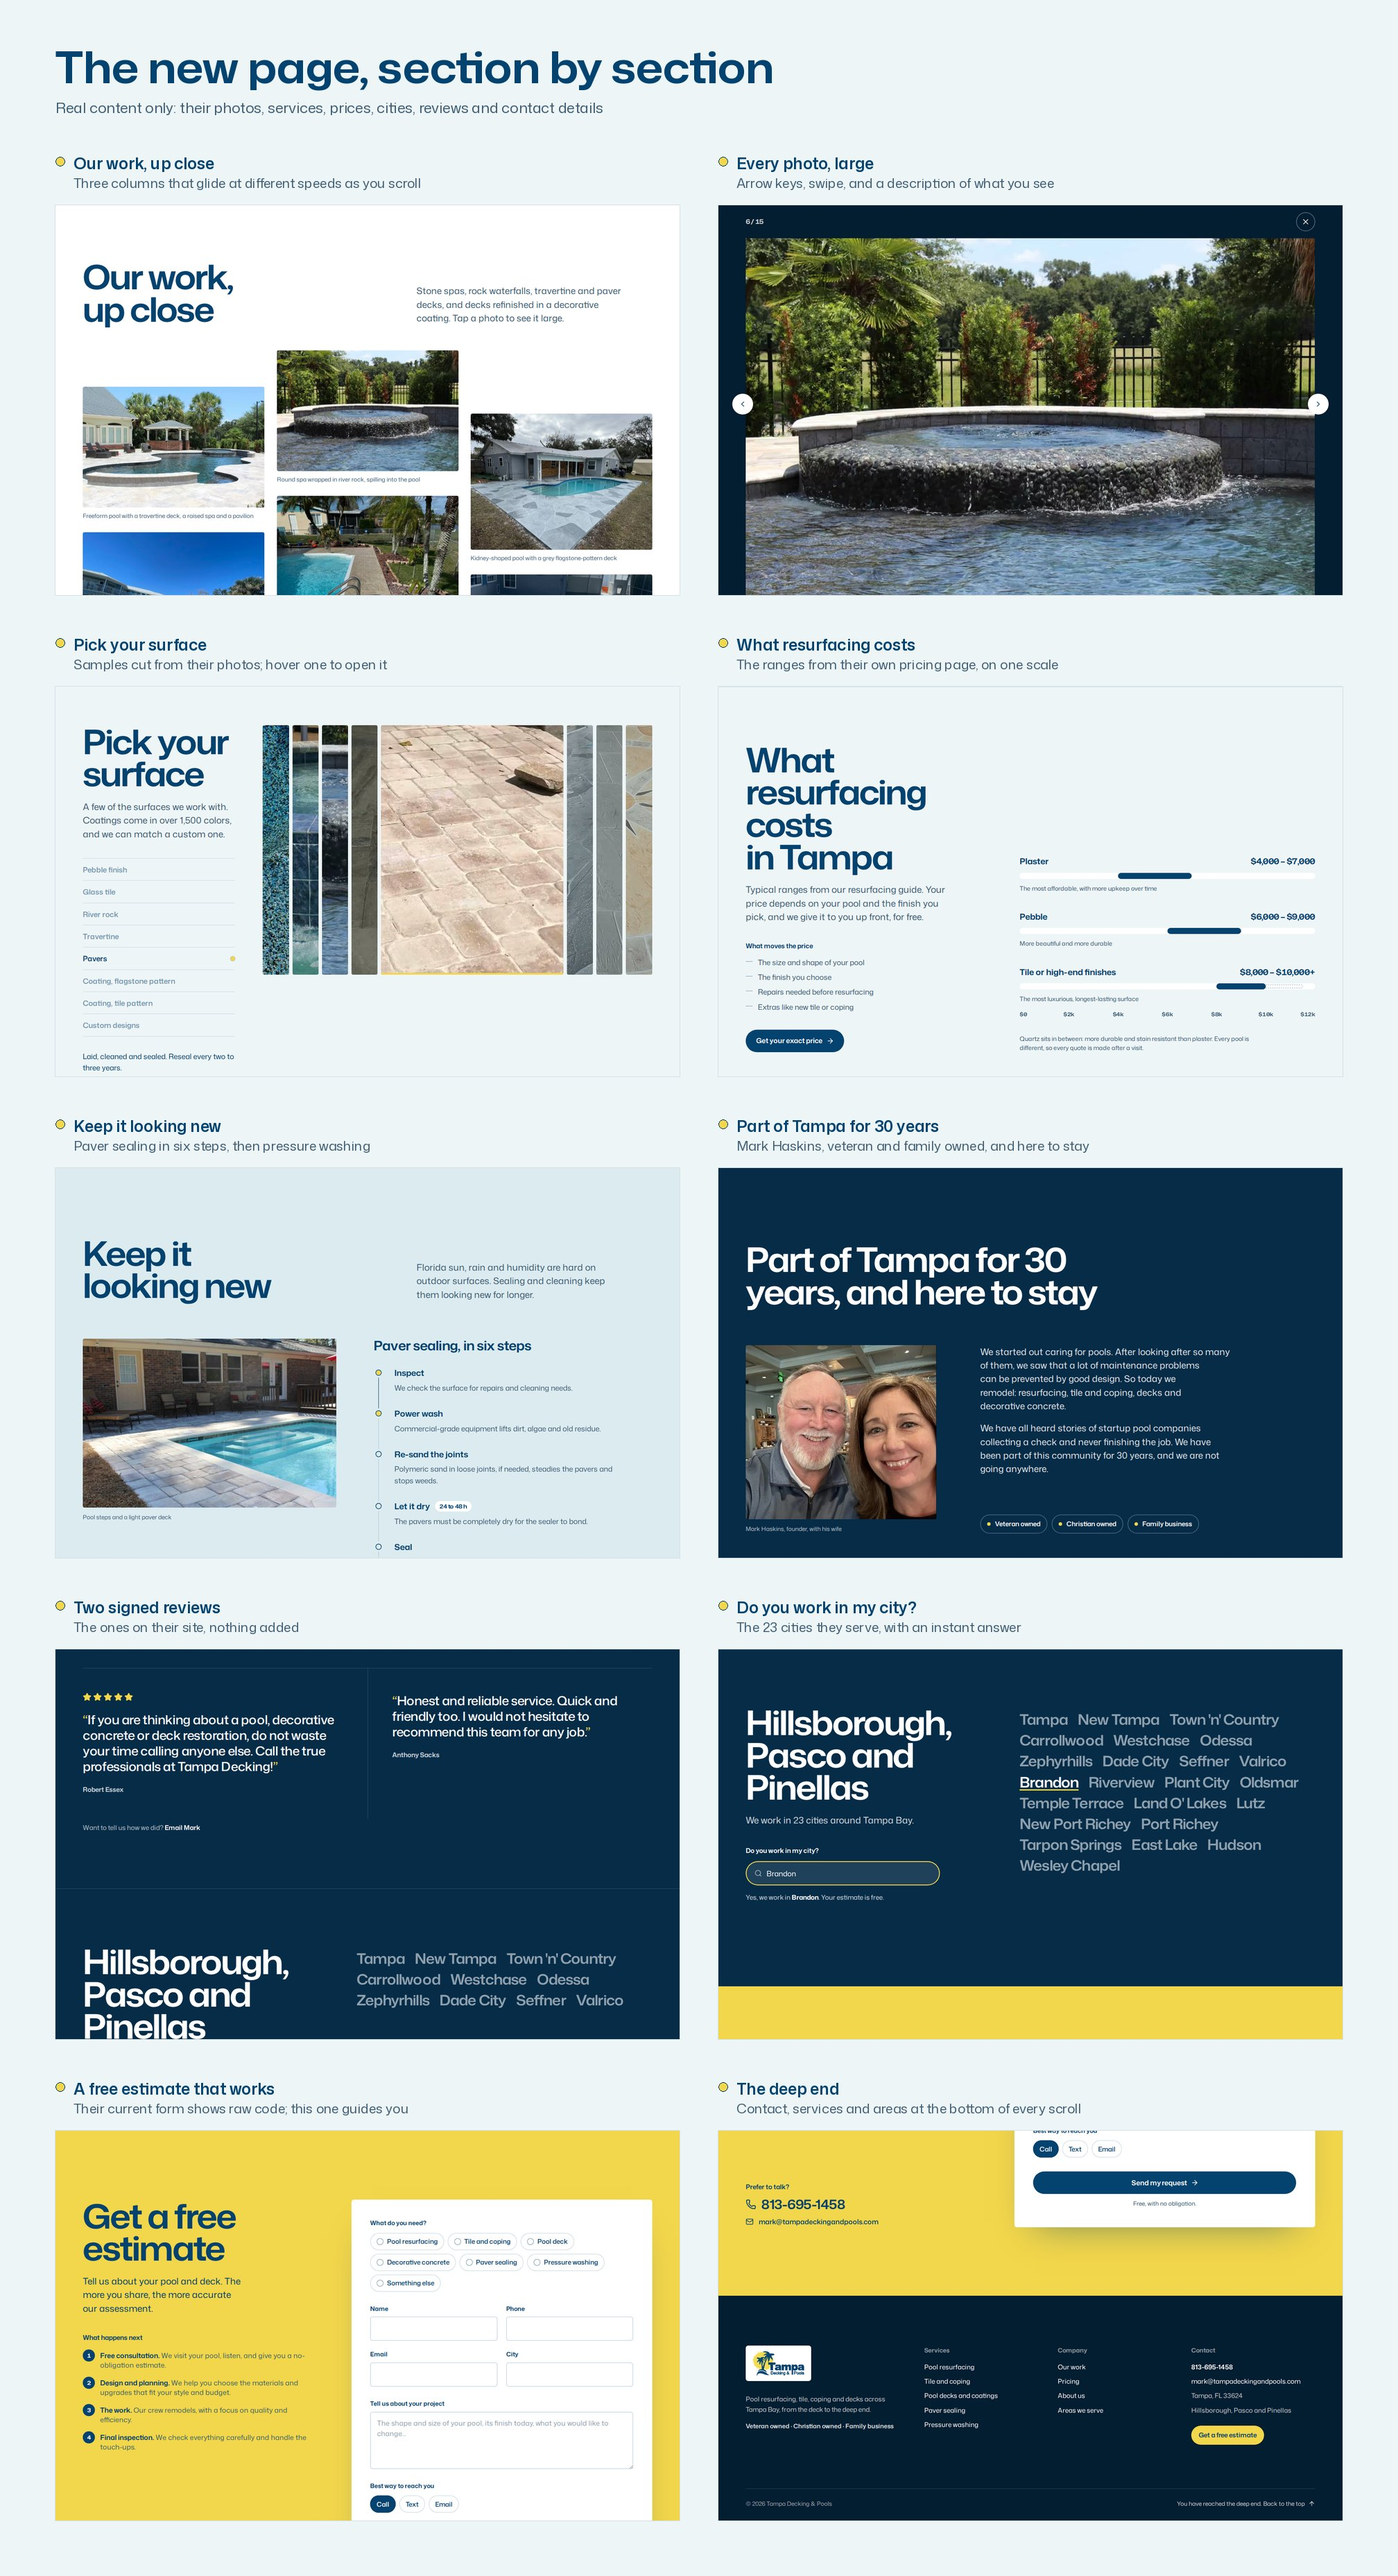
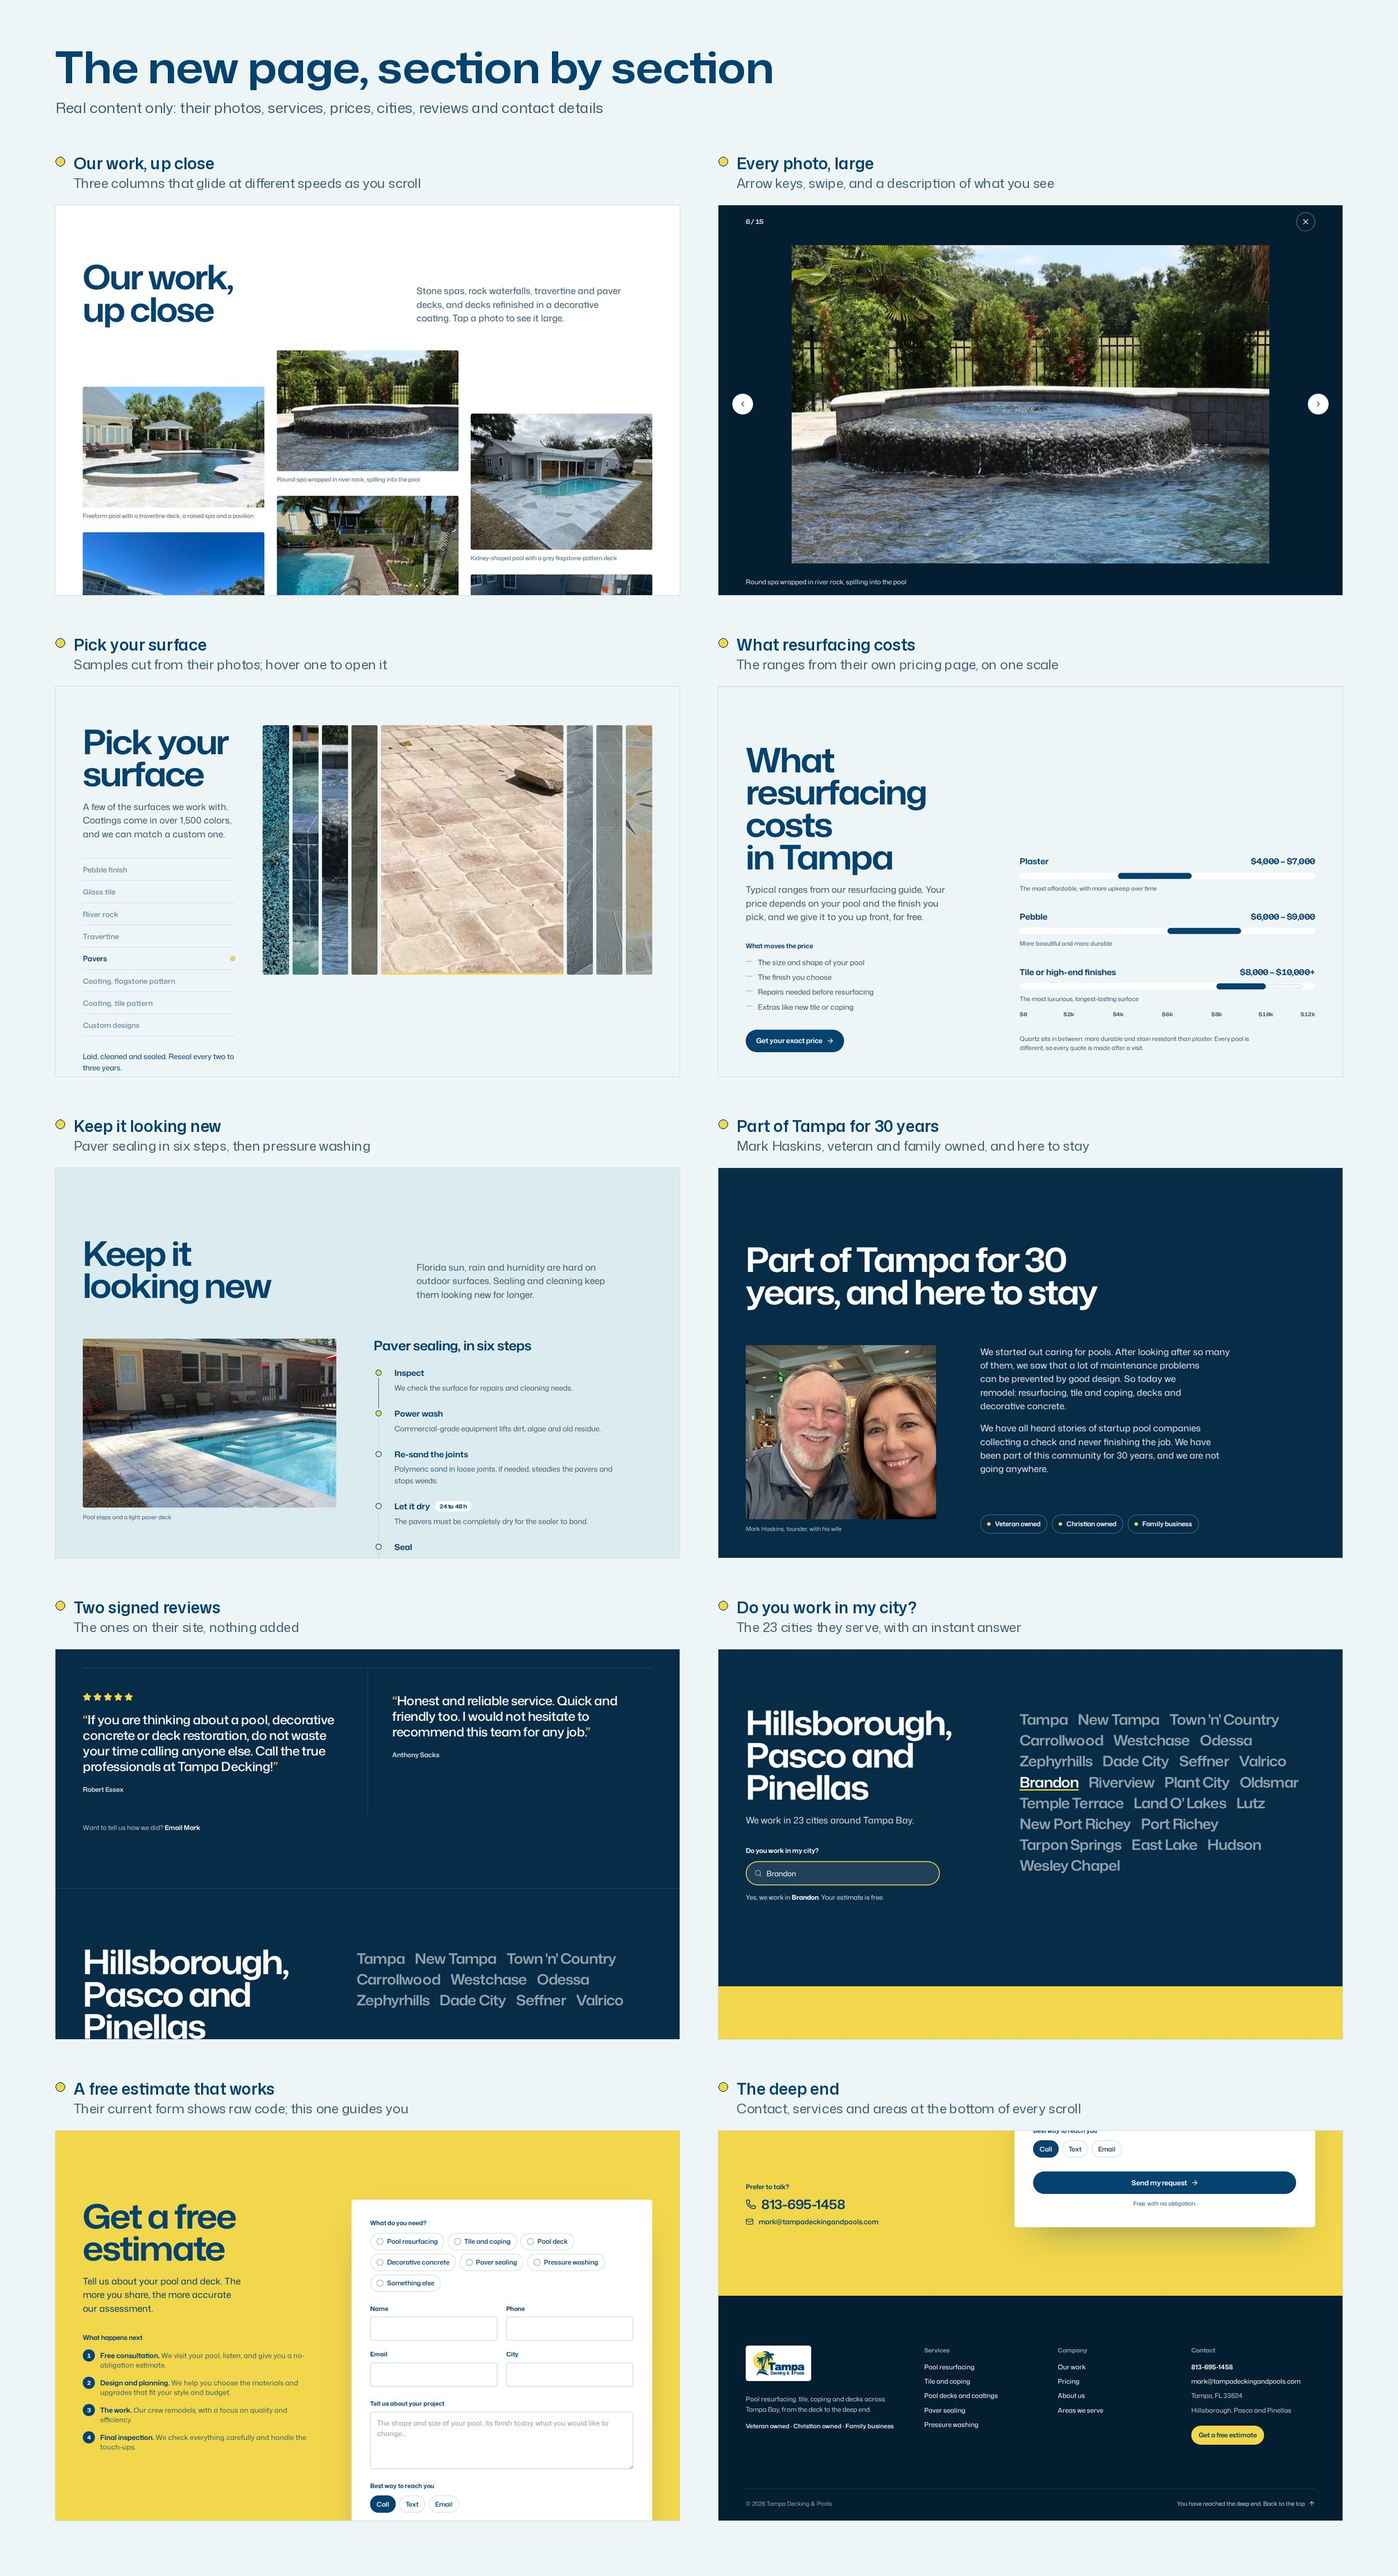
Tampa : analyse corrigée (la photo d'accueil actuelle montre un bassin, son origine reste à confirmer), planches mises à jour
Claude-Session: https://claude.ai/code/session_012vj3vKfANZhPVGGxGqVsw2

Changed region(s): [[0.5312, 0.0937, 0.9375, 0.2499]]

diff --git a/tampa-decking-site/tools/boards.py b/tampa-decking-site/tools/boards.py
@@ -73,7 +73,7 @@ A = lambda n: Image.open(AFTER / n)
 B = lambda n: Image.open(BEFORE / n)
 
 pair('avant-apres-ordinateur.jpg', [
-    (B('desktop-top.png'), 'Before', 'Current homepage: a stock photo of a pergola, no menu, a form that does not load', False),
+    (B('desktop-top.png'), 'Before', 'Current homepage: a darkened patio photo, no menu, a form that does not load', False),
     (A('d-top.png'), 'After', 'New homepage: their own stone spa, the headline across the waterline', True),
 ], 1100, 'Tampa Decking & Pools: before and after', SUB)
 

diff --git a/tampa-decking-site/ANALYSE.md b/tampa-decking-site/ANALYSE.md
@@ -104,7 +104,6 @@ Site analysé : https://tampadeckingandpools.com, relevé le 7 octobre 2026.
 - **Filigranes d'autres entreprises** : deux photos marquées « LLC Overlay Tampa Florida / After », une avec le logo « Concrete Art Design ».
 - **Images d'autres piscinistes**, reconnaissables à leur nom de fichier : « tallahassee-pools-builder » (affichées sur leur page Gallery), « phoenix », « Platinum Pools Top 10 », « The Woodlands », « concretenetwork », « orlando-pool-deck-resurfacing ».
 - **Images de banque ou générées** :
-  - la photo d'accueil, une pergola sans piscine ;
   - les photos « pressure washing » de 2024 aux noms aléatoires ;
   - un fichier intitulé « an image of a modern pool and spa… » ;
   - des photos Unsplash.
@@ -125,7 +124,7 @@ Site analysé : https://tampadeckingandpools.com, relevé le 7 octobre 2026.
 - Le principal moyen de demander un devis est cassé. Il reste le téléphone et l'e-mail, écrits en petit.
 
 **3. L'accueil ne montre pas leur travail.**
-- La grande photo est une image de banque (une pergola, sans piscine), sous un voile sombre.
+- La grande photo est une terrasse sous pergola, assombrie par un voile ; le bassin n'en occupe qu'un coin. Rien n'indique que ce soit un de leurs chantiers (fichier « Tampa-Decking-Pools.jpeg », à faire confirmer).
 - Le titre est générique : « Tampa's Premier Pool And Decking Service ».
 - Leur travail se résume à trois cartes de services et quatre petites vignettes.
 
